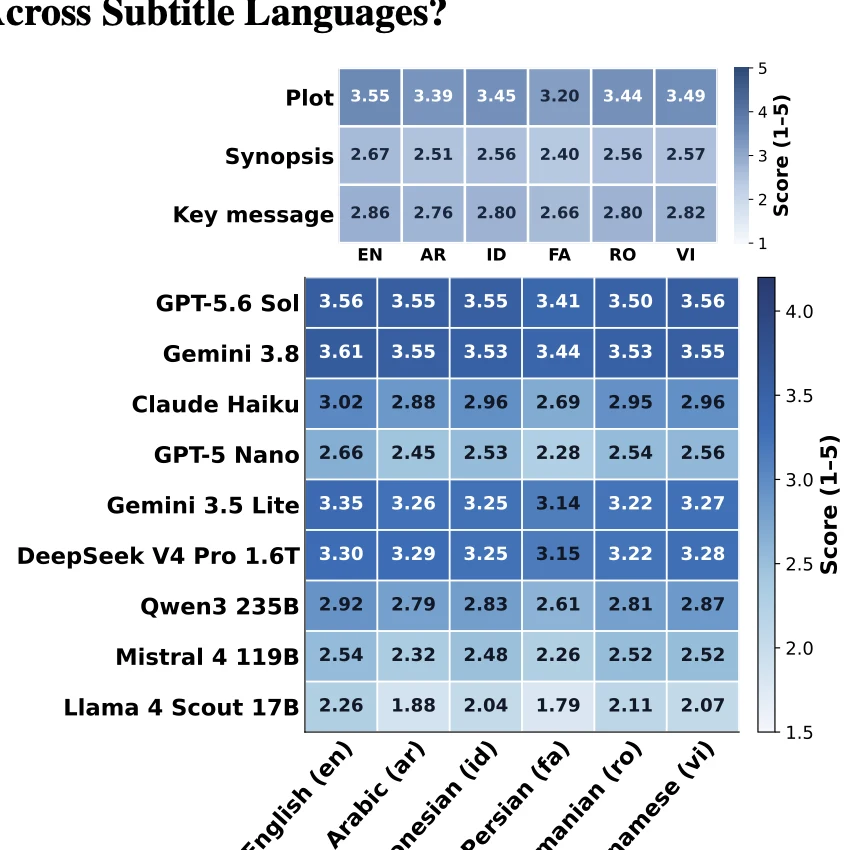
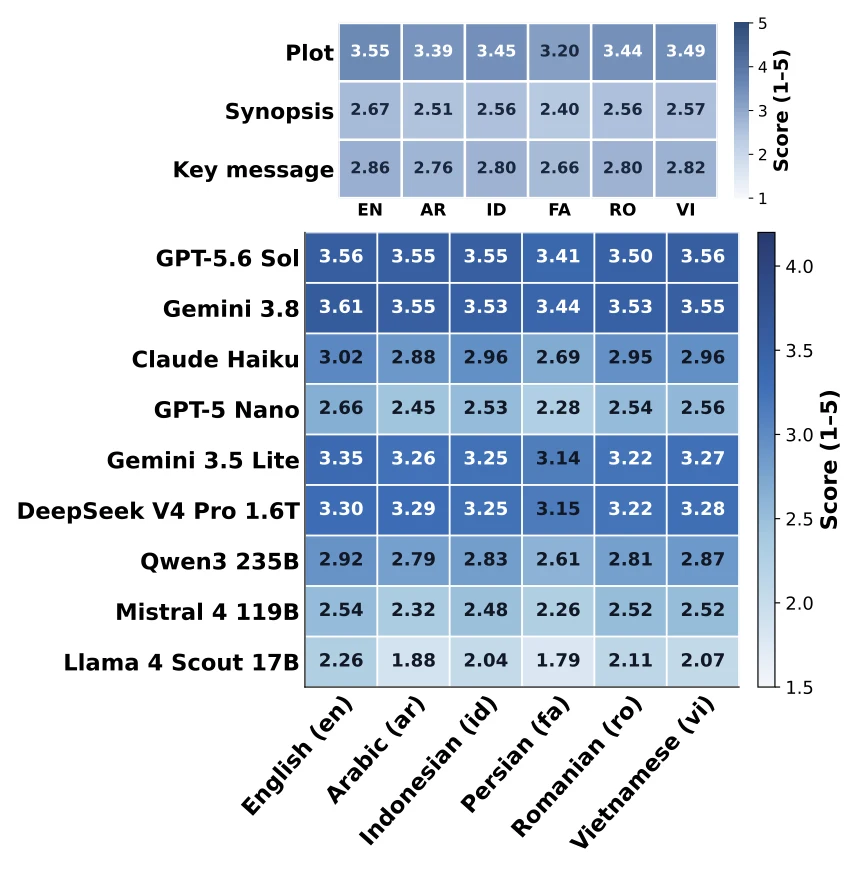
Updated!

diff --git a/LLM-structural-bias/static/css/index.css b/LLM-structural-bias/static/css/index.css
@@ -54,9 +54,9 @@ a:hover { color: var(--blue-dark); }
 .nav-links a { display: inline-flex; min-height: 42px; align-items: center; padding: 0.35rem 0.7rem; border-bottom: 2px solid transparent; color: var(--muted); font-size: 0.82rem; font-weight: 640; text-decoration: none; white-space: nowrap; }
 .nav-links a:hover, .nav-links a:focus-visible { border-bottom-color: var(--blue); color: var(--blue-dark); }
 .hero, main, .site-footer { width: min(var(--max), calc(100% - 48px)); margin-inline: auto; }
-.hero { padding: clamp(3.25rem, 8vw, 5rem) 0 0; text-align: center; }
+.hero { padding: clamp(2rem, 3vw, 2.6rem) 0 0; text-align: center; }
 h1, h2, h3, p, figure { margin-top: 0; }
-.hero h1 { max-width: 850px; margin: 0 auto 0.7rem; font-size: clamp(2rem, 4vw, 3.4rem); line-height: 1.14; font-weight: 760; letter-spacing: 0; }
+.hero h1 { max-width: 850px; margin: 0 auto 0.7rem; font-size: clamp(2rem, 4vw, 3rem); line-height: 1.14; font-weight: 760; letter-spacing: 0; }
 .subtitle { max-width: 750px; margin: 0 auto 0.85rem; color: #445363; font-size: clamp(1.05rem, 1.6vw, 1.25rem); line-height: 1.5; }
 .authors { margin: 1.15rem 0 0.2rem; text-align: center; font-size: 1rem; font-weight: 670; }
 .authors a { color: var(--blue-dark); text-decoration: none; }
@@ -67,17 +67,19 @@ h1, h2, h3, p, figure { margin-top: 0; }
 .project-button { display: inline-flex; min-height: 40px; align-items: center; justify-content: center; gap: 0.5rem; padding: 0.48rem 0.85rem; border: 1px solid #343a40; border-radius: 999px; background: #343a40; color: #fff; font-size: 0.86rem; font-weight: 680; text-decoration: none; transition: background-color 140ms ease, border-color 140ms ease, transform 140ms ease; }
 .project-button:hover { transform: translateY(-1px); border-color: #171c20; background: #171c20; color: #fff; }
 .project-icon { display: block; width: 1.05rem; height: 1.05rem; flex: 0 0 1.05rem; color: #fff; }
-.project-icon-hf { width: 1.12rem; height: 1.12rem; flex-basis: 1.12rem; border-radius: 50%; object-fit: contain; }
-.project-icon-github { width: 1.08rem; height: 1.08rem; flex-basis: 1.08rem; object-fit: contain; }
-.stat-strip { display: grid; grid-template-columns: repeat(3, minmax(0, 1fr)); max-width: 800px; margin: -0.55rem auto 2rem; padding: 0; list-style: none; }
+.project-icon-hf { width: 1.05rem; height: 1.05rem; flex-basis: 1.05rem; border-radius: 50%; object-fit: contain; }
+.project-icon-github { width: 1.05rem; height: 1.05rem; flex-basis: 1.05rem; object-fit: contain; }
+.stat-strip { display: grid; grid-template-columns: repeat(3, minmax(0, 1fr)); max-width: 850px; margin: 0 auto 1.1rem; padding: 0.65rem 0; border-top: 1px solid var(--rule); border-bottom: 1px solid var(--rule); list-style: none; }
 .stat-strip li { display: flex; flex-direction: column; align-items: center; gap: 0.05rem; padding: 0.35rem 1rem; }
 .stat-strip li + li { border-left: 1px solid var(--rule); }
 .stat-strip strong { color: var(--blue-dark); font-size: 1.3rem; line-height: 1.25; font-weight: 760; }
 .stat-strip span { color: var(--muted); font-size: 0.78rem; line-height: 1.4; }
 .figure { margin: 0; }
 .figure img { display: block; width: 100%; height: auto; }
-.figure-pipeline { max-width: 820px; margin-inline: auto; padding: clamp(0.6rem, 2vw, 1.15rem); border: 1px solid var(--rule); border-radius: 6px; background: var(--surface); box-shadow: 0 8px 22px rgba(32, 45, 62, 0.055); }
-figcaption { display: flex; gap: 0.55rem; margin-top: 0.72rem; color: var(--muted); font-size: 0.78rem; line-height: 1.5; }
+.figure-pipeline { max-width: 680px; margin-inline: auto; padding: clamp(0.45rem, 1.4vw, 0.85rem); border: 1px solid var(--rule); border-radius: 6px; background: var(--surface); box-shadow: 0 8px 22px rgba(32, 45, 62, 0.055); }
+.figure-link { display: block; }
+.figure-link:focus-visible, .project-button:focus-visible { outline: 2px solid var(--blue); outline-offset: 3px; }
+figcaption { display: flex; gap: 0.55rem; margin-top: 0.72rem; color: var(--muted); font-size: 0.8rem; line-height: 1.5; }
 figcaption span { flex: 0 0 auto; color: var(--ink); font-weight: 700; }
 main { padding-top: 1rem; }
 .content-section { display: grid; grid-template-columns: 175px minmax(0, 1fr); gap: 2.5rem; padding: 3.2rem 0; border-bottom: 1px solid var(--rule); scroll-margin-top: 76px; }
@@ -118,20 +120,20 @@ main { padding-top: 1rem; }
 .site-footer { display: flex; justify-content: space-between; gap: 1rem; padding: 1.15rem 0 1.7rem; border-top: 1px solid var(--rule); color: var(--muted); font-size: 0.8rem; }
 .site-footer a { text-decoration: none; }
 
-@media (max-width: 720px) {
+@media (max-width: 760px) {
   .site-nav { align-items: flex-start; flex-direction: column; gap: 0.35rem; padding: 0.65rem 18px 0.55rem; }
   .nav-links { width: 100%; gap: 0.1rem; overflow-x: auto; padding: 0.15rem 0 0; scrollbar-width: none; }
   .nav-links::-webkit-scrollbar { display: none; }
   .nav-links a { min-height: 38px; flex: 0 0 auto; padding-inline: 0.55rem; font-size: 0.78rem; }
   .hero, main, .site-footer { width: calc(100% - 36px); }
-  .hero { padding-top: 2.6rem; }
+  .hero { padding-top: 2rem; }
   .hero h1 { font-size: clamp(1.8rem, 7.5vw, 2.7rem); }
   .desktop-break { display: none; }
   .authors { font-size: 0.93rem; }
   .affiliation { margin-bottom: 0.8rem; }
   .publication-links { gap: 0.45rem; margin-bottom: 1.3rem; }
   .project-button { min-height: 39px; padding-inline: 0.7rem; font-size: 0.82rem; }
-  .stat-strip { grid-template-columns: 1fr; gap: 0.65rem; margin: 0.15rem auto 1.45rem; padding: 0.8rem 0; border-top: 1px solid var(--rule); border-bottom: 1px solid var(--rule); }
+  .stat-strip { grid-template-columns: 1fr; gap: 0.55rem; margin: 0 auto 1.15rem; padding: 0.65rem 0; }
   .stat-strip li { display: grid; grid-template-columns: 84px minmax(0, 1fr); align-items: baseline; gap: 0.6rem; padding: 0; text-align: left; }
   .stat-strip li + li { border-left: 0; }
   .stat-strip strong { font-size: 1.15rem; text-align: right; }

diff --git a/CineSubBench/index.html b/CineSubBench/index.html
@@ -57,7 +57,9 @@
       <li><strong>10</strong><span>national rating systems</span></li>
     </ul>
     <figure class="figure figure-overview">
-      <img src="static/figures/overview.webp" alt="CineSubBench overview: 1,012 films with six parallel subtitle languages are evaluated on narrative generation, genre, age suitability, national ratings, and subtitle-grounded safety." width="1600" height="1050" fetchpriority="high">
+      <a class="figure-link" href="static/figures/overview.webp" target="_blank" rel="noopener noreferrer" aria-label="Open the full-size CineSubBench overview figure">
+        <img src="static/figures/overview.webp" alt="CineSubBench overview: 1,012 films with six parallel subtitle languages are evaluated on narrative generation, genre, age suitability, national ratings, and subtitle-grounded safety." width="1600" height="1050" fetchpriority="high">
+      </a>
       <figcaption><span>Benchmark overview</span> The same films connect long-form subtitle input to narrative, cultural, and evidence-grounded tasks.</figcaption>
     </figure>
   </header>
@@ -134,25 +136,21 @@
         <h3 class="finding-subhead">RQ2: Does understanding transfer across subtitle languages?</h3>
         <p>For all nine models, the five non-English languages have lower average narrative scores than English in point estimate. Persian is the lowest narrative setting for every evaluated model. Models recover the plot premise more reliably than a full event-complete synopsis; the paper's evaluator annotations flag a missing major event in 79.7% of synopses and an invented one in 71.1%.</p>
         <figure class="figure figure-result figure-language">
-          <img src="static/figures/languages.webp" alt="Heatmaps of narrative scores across six subtitle languages. Persian is the lowest overall narrative setting for each of the nine models; plot scores are higher than synopsis scores." width="850" height="850" loading="lazy">
+          <img src="static/figures/languages.webp" alt="Heatmaps of narrative scores across six subtitle languages. Persian is the lowest overall narrative setting for each of the nine models; plot scores are higher than synopsis scores." width="850" height="870" loading="lazy">
           <figcaption><span>Language robustness</span> The same films produce different narrative performance when the subtitle language changes.</figcaption>
         </figure>
 
         <h3 class="finding-subhead">RQ3: Are age and country ratings calibrated?</h3>
         <p>Near-match age accuracy can hide different directions of error. In the ten national systems, raw accuracy must be compared with each country's label distribution: France has 31.6% mean model exact match against a 72.0% majority baseline, while Brazil shows meaningful gains over a much lower baseline.</p>
         <figure class="figure figure-result figure-wide">
-          <div class="figure-scroll" tabindex="0" aria-label="Age and country ratings chart; scroll horizontally on narrow screens">
-            <img src="static/figures/ratings.webp" alt="Age prediction errors vary in magnitude and direction across models. Country-rating exact-match heatmap shows sharp differences among ten national systems and their majority baselines." width="1630" height="1240" loading="lazy">
-          </div>
+          <img src="static/figures/ratings.webp" alt="Age prediction errors vary in magnitude and direction across models. Country-rating exact-match heatmap shows sharp differences among ten national systems and their majority baselines." width="1630" height="1240" loading="lazy">
           <figcaption><span>Cultural calibration</span> Similar age accuracy can mask opposing errors; country-rating results need local baselines.</figcaption>
         </figure>
 
         <h3 class="finding-subhead">RQ4: Can safety judgments cite the right evidence?</h3>
         <p>Finding a relevant subtitle line and assigning it the correct safety category are different abilities. The leading model reaches 86.8% category-agnostic evidence F1 but 77.8% strict F1. Strong profanity is much easier to ground than mild obscenity, exposing a failure mode hidden by a single safety score.</p>
         <figure class="figure figure-result figure-wide">
-          <div class="figure-scroll" tabindex="0" aria-label="Language safety chart; scroll horizontally on narrow screens">
-            <img src="static/figures/safety.webp" alt="Language-safety chart comparing category-agnostic and strict subtitle evidence F1 across nine models, plus evidence precision and recall for four lexical categories." width="1630" height="630" loading="lazy">
-          </div>
+          <img src="static/figures/safety.webp" alt="Language-safety chart comparing category-agnostic and strict subtitle evidence F1 across nine models, plus evidence precision and recall for four lexical categories." width="1630" height="630" loading="lazy">
           <figcaption><span>Evidence grounding</span> Correct lines are not always assigned the correct category; mild obscenity remains particularly difficult.</figcaption>
         </figure>
       </div>

diff --git a/NameTrace/static/css/index.css b/NameTrace/static/css/index.css
@@ -25,10 +25,10 @@ a:hover { color: var(--blue-dark); }
 .nav-links a { display: inline-flex; min-height: 42px; align-items: center; padding: 0.35rem 0.7rem; border-bottom: 2px solid transparent; color: var(--muted); font-size: 0.82rem; font-weight: 640; text-decoration: none; white-space: nowrap; }
 .nav-links a:hover, .nav-links a:focus-visible { border-bottom-color: var(--blue); color: var(--blue-dark); }
 .hero, main, .site-footer { width: min(var(--max), calc(100% - 48px)); margin-inline: auto; }
-.hero { padding: clamp(3rem, 7vw, 4.75rem) 0 0; text-align: center; }
+.hero { padding: clamp(2rem, 3vw, 2.6rem) 0 0; text-align: center; }
 .project-label { margin-bottom: 0.8rem; color: var(--teal); font-size: 0.76rem; font-weight: 740; }
 h1, h2, h3, p, figure { margin-top: 0; }
-.hero h1 { max-width: 820px; margin: 0 auto 0.75rem; font-size: clamp(2rem, 4vw, 3.4rem); line-height: 1.14; font-weight: 760; }
+.hero h1 { max-width: 820px; margin: 0 auto 0.75rem; font-size: clamp(2rem, 4vw, 3rem); line-height: 1.14; font-weight: 760; }
 .subtitle { max-width: 720px; margin: 0 auto 0.9rem; color: #445363; font-size: clamp(1.05rem, 1.6vw, 1.25rem); line-height: 1.5; }
 .authors { display: flex; flex-wrap: wrap; align-items: baseline; justify-content: center; gap: 0.35rem; margin: 1.1rem 0 0.15rem; font-size: 1rem; font-weight: 670; }
 .authors a { color: var(--blue-dark); text-decoration: none; }
@@ -40,15 +40,17 @@ h1, h2, h3, p, figure { margin-top: 0; }
 .project-button:hover { transform: translateY(-1px); border-color: #171c20; background: #171c20; color: #fff; }
 .project-icon { display: block; width: 1.05rem; height: 1.05rem; flex: 0 0 1.05rem; color: #fff; }
 .project-icon-hf { width: 1.05rem; height: 1.05rem; flex-basis: 1.05rem; border-radius: 50%; object-fit: contain; }
-.stat-strip { display: grid; grid-template-columns: repeat(3, minmax(0, 1fr)); max-width: 850px; margin: 0 auto 1.7rem; padding: 0.65rem 0; border-top: 1px solid var(--rule); border-bottom: 1px solid var(--rule); list-style: none; }
+.stat-strip { display: grid; grid-template-columns: repeat(3, minmax(0, 1fr)); max-width: 850px; margin: 0 auto 1.1rem; padding: 0.65rem 0; border-top: 1px solid var(--rule); border-bottom: 1px solid var(--rule); list-style: none; }
 .stat-strip li { display: flex; flex-direction: column; align-items: center; gap: 0.08rem; padding: 0.25rem 1rem; }
 .stat-strip li + li { border-left: 1px solid var(--rule); }
 .stat-strip strong { color: var(--blue-dark); font-size: 1.4rem; line-height: 1.25; font-weight: 760; }
 .stat-strip span { color: var(--muted); font-size: 0.8rem; line-height: 1.4; }
 .figure { margin: 0; }
 .figure img { display: block; width: 100%; height: auto; }
-.figure-overview { max-width: 820px; margin: 0 auto; padding: clamp(0.45rem, 1.4vw, 0.85rem); border: 1px solid var(--rule); border-radius: 6px; background: var(--surface); box-shadow: 0 8px 22px rgba(32, 45, 62, 0.055); }
-figcaption { display: flex; gap: 0.55rem; margin-top: 0.7rem; color: var(--muted); font-size: 0.78rem; line-height: 1.5; text-align: left; }
+.figure-overview { max-width: 680px; margin: 0 auto; padding: clamp(0.45rem, 1.4vw, 0.85rem); border: 1px solid var(--rule); border-radius: 6px; background: var(--surface); box-shadow: 0 8px 22px rgba(32, 45, 62, 0.055); }
+.figure-link { display: block; }
+.figure-link:focus-visible, .project-button:focus-visible { outline: 2px solid var(--blue); outline-offset: 3px; }
+figcaption { display: flex; gap: 0.55rem; margin-top: 0.7rem; color: var(--muted); font-size: 0.8rem; line-height: 1.5; text-align: left; }
 figcaption span { flex: 0 0 auto; color: var(--ink); font-weight: 700; }
 main { padding-top: 1rem; }
 .content-section { display: grid; grid-template-columns: 175px minmax(0, 1fr); gap: 2.5rem; padding: 3rem 0; border-bottom: 1px solid var(--rule); scroll-margin-top: 76px; }
@@ -95,7 +97,7 @@ main { padding-top: 1rem; }
   .nav-links::-webkit-scrollbar { display: none; }
   .nav-links a { min-height: 38px; flex: 0 0 auto; padding-inline: 0.55rem; font-size: 0.78rem; }
   .hero, main, .site-footer { width: calc(100% - 36px); }
-  .hero { padding-top: 2.4rem; }
+  .hero { padding-top: 2rem; }
   .hero h1 { font-size: clamp(1.8rem, 7.5vw, 2.7rem); }
   .desktop-break { display: none; }
   .authors { font-size: 0.94rem; }

diff --git a/CineSubBench/static/css/index.css b/CineSubBench/static/css/index.css
@@ -74,8 +74,6 @@ main { padding-top: 1rem; }
 .table-note { margin: 0.6rem 0 1.25rem !important; color: var(--muted) !important; font-size: 0.79rem; }
 .finding-subhead { margin: 1.35rem 0 0.5rem; color: var(--blue-dark); font-size: 1.15rem; line-height: 1.35; }
 .figure-tokenizers { margin: 1rem 0 1.2rem; }
-.figure-scroll { overflow-x: auto; border: 1px solid var(--rule); border-radius: 5px; background: #fff; overscroll-behavior-inline: contain; }
-.figure-scroll img { display: block; width: 100%; min-width: 760px; height: auto; }
 .figure-results { max-width: 390px; margin: 1.25rem auto 1.5rem; }
 .figure-results img { border: 1px solid var(--rule); border-radius: 5px; background: #fff; }
 .figure-transfer { margin-top: 1.5rem; padding: 0.6rem; border: 1px solid var(--rule); border-radius: 5px; background: #fff; }
@@ -137,6 +135,8 @@ main { padding-top: 1rem; }
 .authors .author-name { color: var(--blue-dark); font-size: inherit; font-weight: inherit; }
 .authors .author-comma { margin-right: 0.2rem; color: var(--ink); font-size: inherit; font-weight: inherit; }
 .figure-overview { max-width: 680px; }
+.figure-link { display: block; }
+.figure-link:focus-visible, .project-button:focus-visible { outline: 2px solid var(--blue); outline-offset: 3px; }
 .stat-strip { margin-bottom: 1.1rem; }
 .takeaway { margin: 1.25rem 0 0; padding: 0.9rem 1.1rem; border-left: 3px solid var(--teal); background: #edf3f3; }
 .takeaway strong { font-size: 0.83rem; color: var(--blue-dark); }
@@ -148,10 +148,9 @@ main { padding-top: 1rem; }
 .figure-result { margin: 1.25rem auto 1.7rem; }
 .figure-result img { max-width: 100%; margin-inline: auto; }
 .figure-language { max-width: 440px; }
-.figure-language img, .figure-result .figure-scroll { border: 1px solid var(--rule); border-radius: 5px; background: #fff; }
+.figure-language img, .figure-wide img { border: 1px solid var(--rule); border-radius: 5px; background: #fff; }
 .figure-wide { max-width: 720px; }
-.figure-wide .figure-scroll { padding: 0.45rem; }
-.figure-wide .figure-scroll img { width: 100%; }
+.figure-wide img { width: 100%; height: auto; }
 .leaderboard-wrap { overflow-x: auto; max-width: 100%; margin: 1.1rem 0 0.4rem; border: 1px solid var(--rule); border-radius: 6px; background: #fff; box-shadow: 0 5px 16px rgba(32, 45, 62, 0.05); }
 .leaderboard { width: 100%; min-width: 790px; border-collapse: separate; border-spacing: 0; font-variant-numeric: tabular-nums; }
 .leaderboard caption { padding: 0.7rem 0.85rem; color: var(--muted); font-size: 0.76rem; text-align: left; }
@@ -174,7 +173,7 @@ main { padding-top: 1rem; }
 .bronze { background: #f5ddca; color: #815033; box-shadow: inset 0 0 0 1px #d5a47d; }
 .rank-number { color: var(--muted); font-weight: 650; }
 .sort-indicator { color: var(--teal); }
-.leaderboard-wrap:focus-visible, .figure-scroll:focus-visible { outline: 2px solid var(--blue); outline-offset: 2px; }
+.leaderboard-wrap:focus-visible { outline: 2px solid var(--blue); outline-offset: 2px; }
 
 @media (max-width: 760px) {
   .site-nav { gap: 0.12rem; }
@@ -188,6 +187,5 @@ main { padding-top: 1rem; }
   .leaderboard tbody td:first-child { position: sticky; left: 0; z-index: 1; background: #fff; }
   .leaderboard tbody th { position: sticky; left: 44px; z-index: 1; background: #fff; box-shadow: 3px 0 6px rgba(32, 45, 62, 0.08); }
   .leaderboard tbody tr:nth-child(even) td:first-child, .leaderboard tbody tr:nth-child(even) th { background: #f8fafb; }
-  .figure-wide .figure-scroll img { width: 680px; max-width: none; }
   .figure-language { max-width: 410px; }
 }

diff --git a/LLM-structural-bias/index.html b/LLM-structural-bias/index.html
@@ -9,7 +9,9 @@
   <meta property="og:type" content="article">
   <meta property="og:title" content="How Does ‘English (US)’ Become the Default?">
   <meta property="og:description" content="Triangulating structural bias towards American English across the LLM pipeline.">
+  <meta property="og:image" content="https://tafseer-nayeem.github.io/LLM-structural-bias/static/figures/pipeline.webp">
   <title>How Does “English (US)” Become the Default? | LLM Structural Bias</title>
+  <link rel="canonical" href="https://tafseer-nayeem.github.io/LLM-structural-bias/">
   <link rel="icon" type="image/png" href="../images/site-logo.png">
   <link rel="stylesheet" href="static/css/index.css">
 </head>
@@ -56,7 +58,9 @@
       <li><strong>10</strong><span>model checkpoints in prediction-cost analysis</span></li>
     </ul>
     <figure class="figure figure-pipeline">
-      <img src="static/figures/pipeline.webp" alt="Study overview tracing regional preference through data exposure, representation, and generation, across model origins, prompt conditions, domains, registers, linguistic categories, and alignment confidence." width="1640" height="725" fetchpriority="high">
+      <a class="figure-link" href="static/figures/pipeline.webp" target="_blank" rel="noopener noreferrer" aria-label="Open the full-size LLM Structural Bias overview figure">
+        <img src="static/figures/pipeline.webp" alt="Study overview tracing regional preference through data exposure, representation, and generation, across model origins, prompt conditions, domains, registers, linguistic categories, and alignment confidence." width="1640" height="725" fetchpriority="high">
+      </a>
       <figcaption><span>Study overview</span> Regional preference is examined at three connected stages: what models encounter, how they encode and score variants, and which forms they generate.</figcaption>
     </figure>
   </header>

diff --git a/NameTrace/index.html b/NameTrace/index.html
@@ -56,7 +56,9 @@
       <li><strong>200</strong><span>matched name pairs for internal analysis (400 Names)</span></li>
     </ul>
     <figure class="figure figure-overview">
-      <img src="static/figures/overview.jpg" alt="NameTrace overview: names enter language models with unequal lexical access; the framework measures task-axis concept accessibility, within-stratum persistence, transfer to unseen names, and downstream leverage." width="2017" height="984" fetchpriority="high">
+      <a class="figure-link" href="static/figures/overview.jpg" target="_blank" rel="noopener noreferrer" aria-label="Open the full-size NameTrace overview figure">
+        <img src="static/figures/overview.jpg" alt="NameTrace overview: names enter language models with unequal lexical access; the framework measures task-axis concept accessibility, within-stratum persistence, transfer to unseen names, and downstream leverage." width="2017" height="984" fetchpriority="high">
+      </a>
       <figcaption><span>Study overview</span> NameTrace follows name-surface support from tokenizer access to internal task concepts, transfer across names, and later constrained choices.</figcaption>
     </figure>
   </header>
